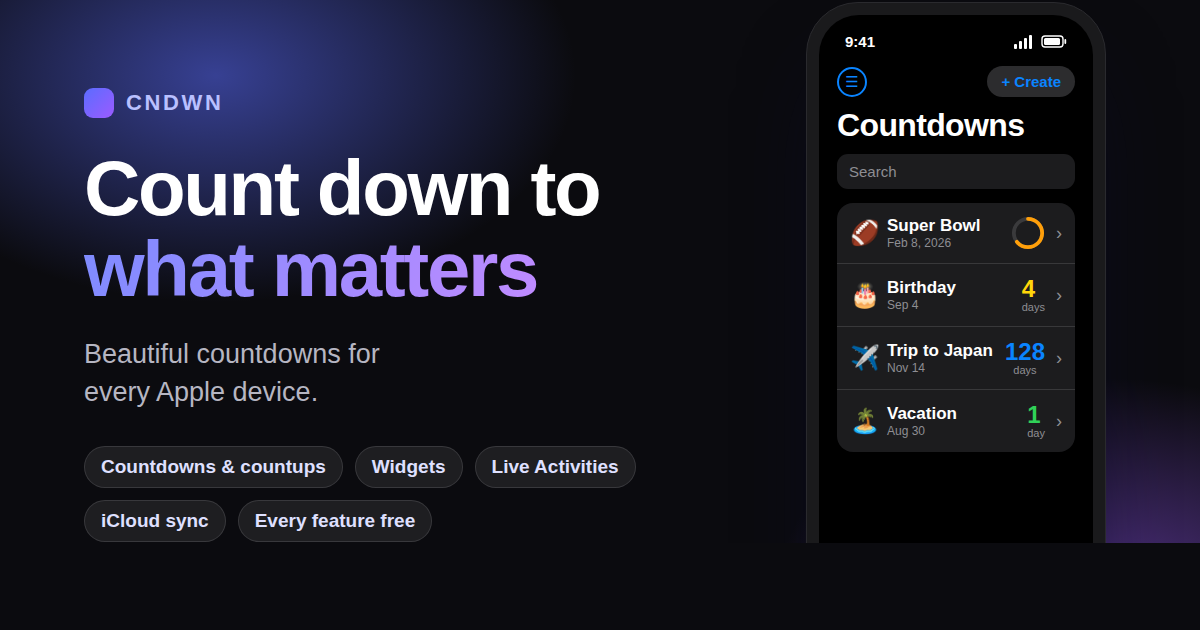
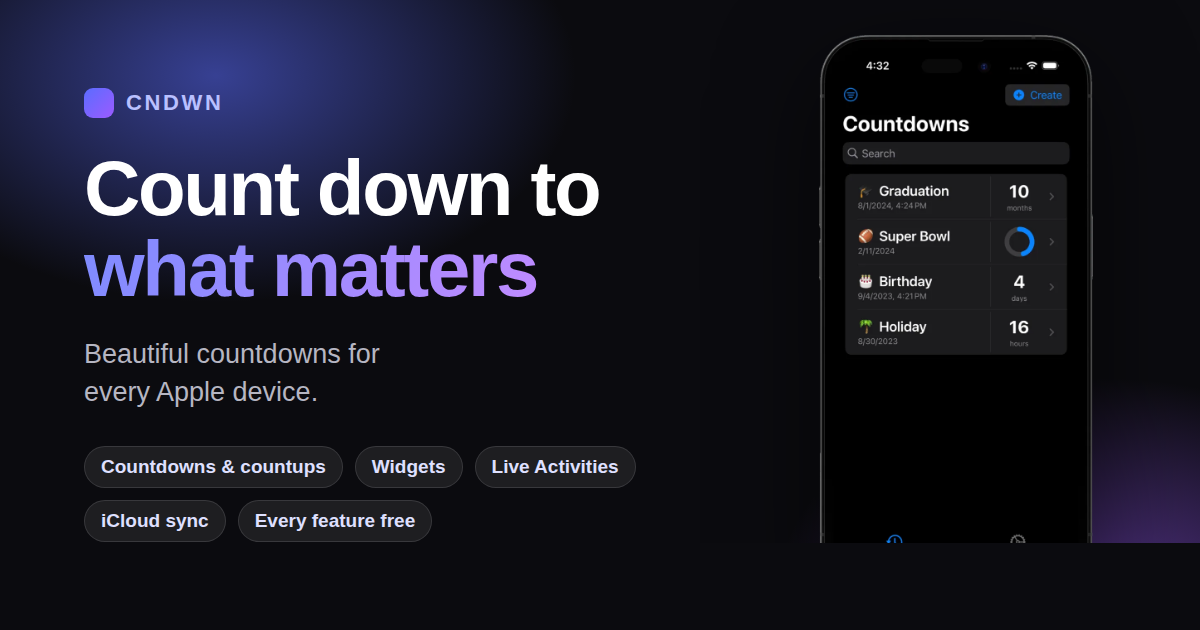
Use modern frameless iPhone screenshots, cropped to the device
- Replace the older home-button App Store screenshots with the current
  iPhone 6.7-inch (Dynamic Island) marketing shots from the store page
- Crop each to the device only: remove caption text and background,
  transparent-background WebP so the phone floats with a soft shadow
- Hero uses the countdown-list screen; gallery shows the Home Screen
  widgets and custom-colors screens with captions
- Regenerate og-image with the same cropped device
- Drop the now-unused framed PNG screenshots

Claude-Session: https://claude.ai/code/session_01H5ucGdAgZxSMHAW2j89aDK

diff --git a/cndwn/index.html b/cndwn/index.html
@@ -278,14 +278,16 @@
   .rating-note { margin-top: 8px; color: var(--muted); font-size: 13.5px; }
   .rating-note .stars { color: #ff9f0a; letter-spacing: 1px; }
 
-  /* Hero — real App Store screenshot */
-  .devices { position: relative; z-index: 1; margin: 50px auto 0; max-width: 320px; }
-  .shot { width: 100%; height: auto; display: block; border-radius: 30px; filter: drop-shadow(0 40px 70px rgba(40,40,90,0.35)); }
+  /* Hero — real, frameless iPhone screenshot */
+  .devices { position: relative; z-index: 1; margin: 48px auto 0; max-width: 288px; }
+  .shot { width: 100%; height: auto; display: block; filter: drop-shadow(0 34px 60px rgba(30,30,70,0.42)); }
 
   /* ---------- Screenshot gallery ---------- */
-  .gallery { display: grid; grid-template-columns: repeat(3, 1fr); gap: 26px; max-width: 900px; margin: 0 auto; }
-  @media (max-width: 720px) { .gallery { grid-template-columns: 1fr; max-width: 320px; } }
-  .gallery img { width: 100%; height: auto; display: block; border-radius: 24px; filter: drop-shadow(0 26px 46px rgba(40,40,90,0.28)); }
+  .gallery { display: flex; flex-wrap: wrap; justify-content: center; gap: 40px 56px; max-width: 720px; margin: 0 auto; }
+  .gallery figure { margin: 0; width: 236px; max-width: 44vw; text-align: center; }
+  .gallery img { width: 100%; height: auto; display: block; filter: drop-shadow(0 26px 46px rgba(30,30,70,0.34)); }
+  .gallery figcaption { margin-top: 20px; font-weight: 600; font-size: 16px; color: var(--text); }
+  @media (max-width: 520px) { .gallery figure { width: 220px; max-width: 70vw; } }
 
   /* ---------- Section shells ---------- */
   section.block { padding: 68px 0; }
@@ -413,9 +415,7 @@
     <p class="rating-note"><span class="stars">★★★★★</span> <span lang="en">4.8 on the App Store · Free</span><span lang="de">4,8 im App Store · Gratis</span><span lang="es">4,8 en la App Store · Gratis</span></p>
 
     <div class="devices">
-      <img class="shot" lang="en" src="img/screen-en-1.png" width="640" height="1386" alt="CNDWN countdown list on iPhone showing Super Bowl, Birthday, Graduation and Holiday countdowns">
-      <img class="shot" lang="de" src="img/screen-de-1.png" width="640" height="1386" alt="CNDWN Countdown-Liste auf dem iPhone mit Super Bowl, Geburtstag, Abschluss und Urlaub">
-      <img class="shot" lang="es" src="img/screen-en-1.png" width="640" height="1386" alt="Lista de cuentas atrás de CNDWN en el iPhone">
+      <img class="shot" src="img/phone-1.webp" width="660" height="1351" alt="CNDWN countdown list on iPhone showing Graduation, Super Bowl, Birthday and Holiday countdowns">
     </div>
   </div>
 </header>
@@ -519,20 +519,17 @@
   <div class="wrap">
     <div class="section-head">
       <h2><span lang="en">See it on your devices</span><span lang="de">Sieh es auf deinen Geräten</span><span lang="es">Míralo en tus dispositivos</span></h2>
-      <p><span lang="en">Widgets, custom colors and Live Activities — straight from the App Store.</span><span lang="de">Widgets, eigene Farben und Live-Aktivitäten — direkt aus dem App Store.</span><span lang="es">Widgets, colores personalizados y actividades en vivo — directo de la App Store.</span></p>
+      <p><span lang="en">Home Screen widgets and custom colors — real screenshots from the App Store.</span><span lang="de">Home-Bildschirm-Widgets und eigene Farben — echte Screenshots aus dem App Store.</span><span lang="es">Widgets de pantalla de inicio y colores personalizados — capturas reales de la App Store.</span></p>
     </div>
     <div class="gallery">
-      <img lang="en" loading="lazy" src="img/screen-en-2.png" width="520" height="1126" alt="CNDWN widgets on the iPhone Home Screen">
-      <img lang="de" loading="lazy" src="img/screen-de-2.png" width="520" height="1126" alt="CNDWN Widgets auf dem iPhone-Home-Bildschirm">
-      <img lang="es" loading="lazy" src="img/screen-en-2.png" width="520" height="1126" alt="Widgets de CNDWN en la pantalla de inicio del iPhone">
-
-      <img lang="en" loading="lazy" src="img/screen-en-3.png" width="520" height="1126" alt="CNDWN countdowns with custom colors">
-      <img lang="de" loading="lazy" src="img/screen-de-3.png" width="520" height="1126" alt="CNDWN Countdowns mit eigenen Farben">
-      <img lang="es" loading="lazy" src="img/screen-en-3.png" width="520" height="1126" alt="Cuentas atrás de CNDWN con colores personalizados">
-
-      <img lang="en" loading="lazy" src="img/screen-en-4.png" width="520" height="1126" alt="CNDWN Live Activity on the iPhone Lock Screen">
-      <img lang="de" loading="lazy" src="img/screen-de-4.png" width="520" height="1126" alt="CNDWN Live-Aktivität auf dem iPhone-Sperrbildschirm">
-      <img lang="es" loading="lazy" src="img/screen-en-4.png" width="520" height="1126" alt="Actividad en vivo de CNDWN en la pantalla de bloqueo del iPhone">
+      <figure>
+        <img loading="lazy" src="img/phone-2.webp" width="660" height="1351" alt="CNDWN widgets on the iPhone Home Screen showing Birthday, Graduation and Holiday countdowns">
+        <figcaption><span lang="en">Home Screen widgets</span><span lang="de">Home-Bildschirm-Widgets</span><span lang="es">Widgets de pantalla de inicio</span></figcaption>
+      </figure>
+      <figure>
+        <img loading="lazy" src="img/phone-3.webp" width="660" height="1351" alt="CNDWN countdown list with custom colors for each event">
+        <figcaption><span lang="en">Custom colors</span><span lang="de">Eigene Farben</span><span lang="es">Colores personalizados</span></figcaption>
+      </figure>
     </div>
   </div>
 </section>